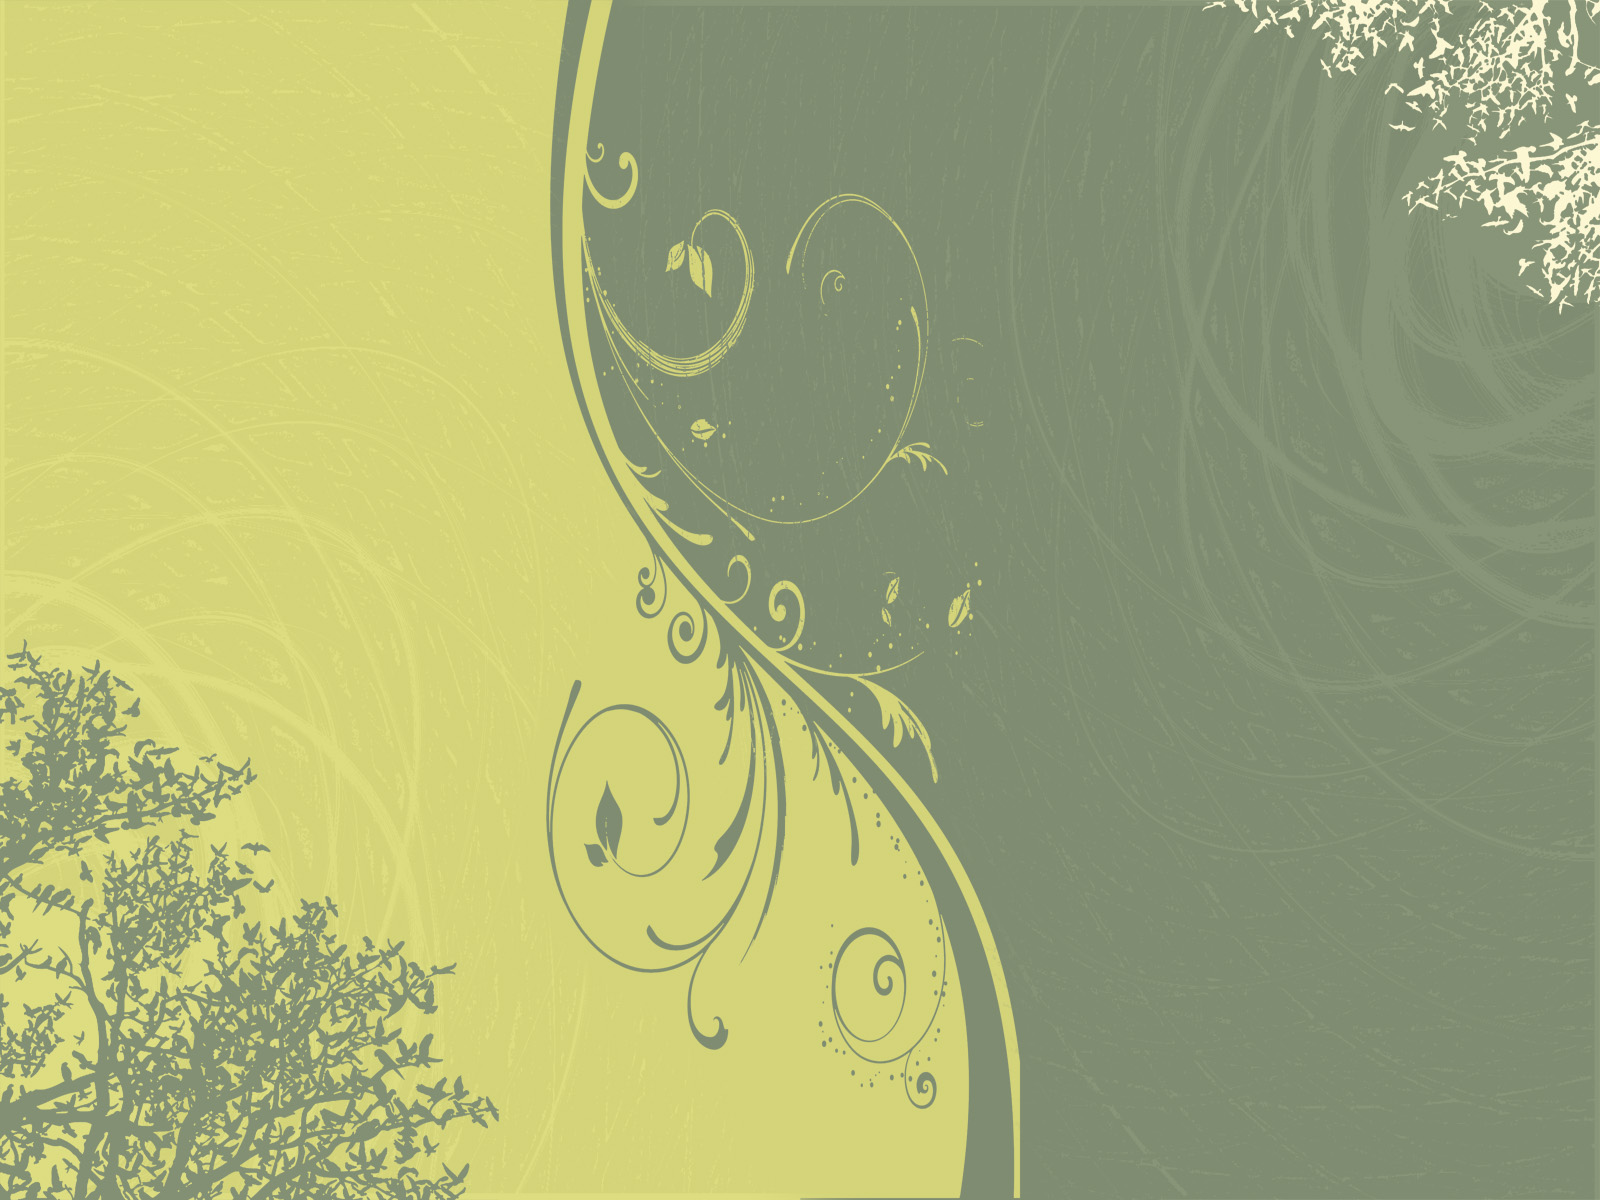
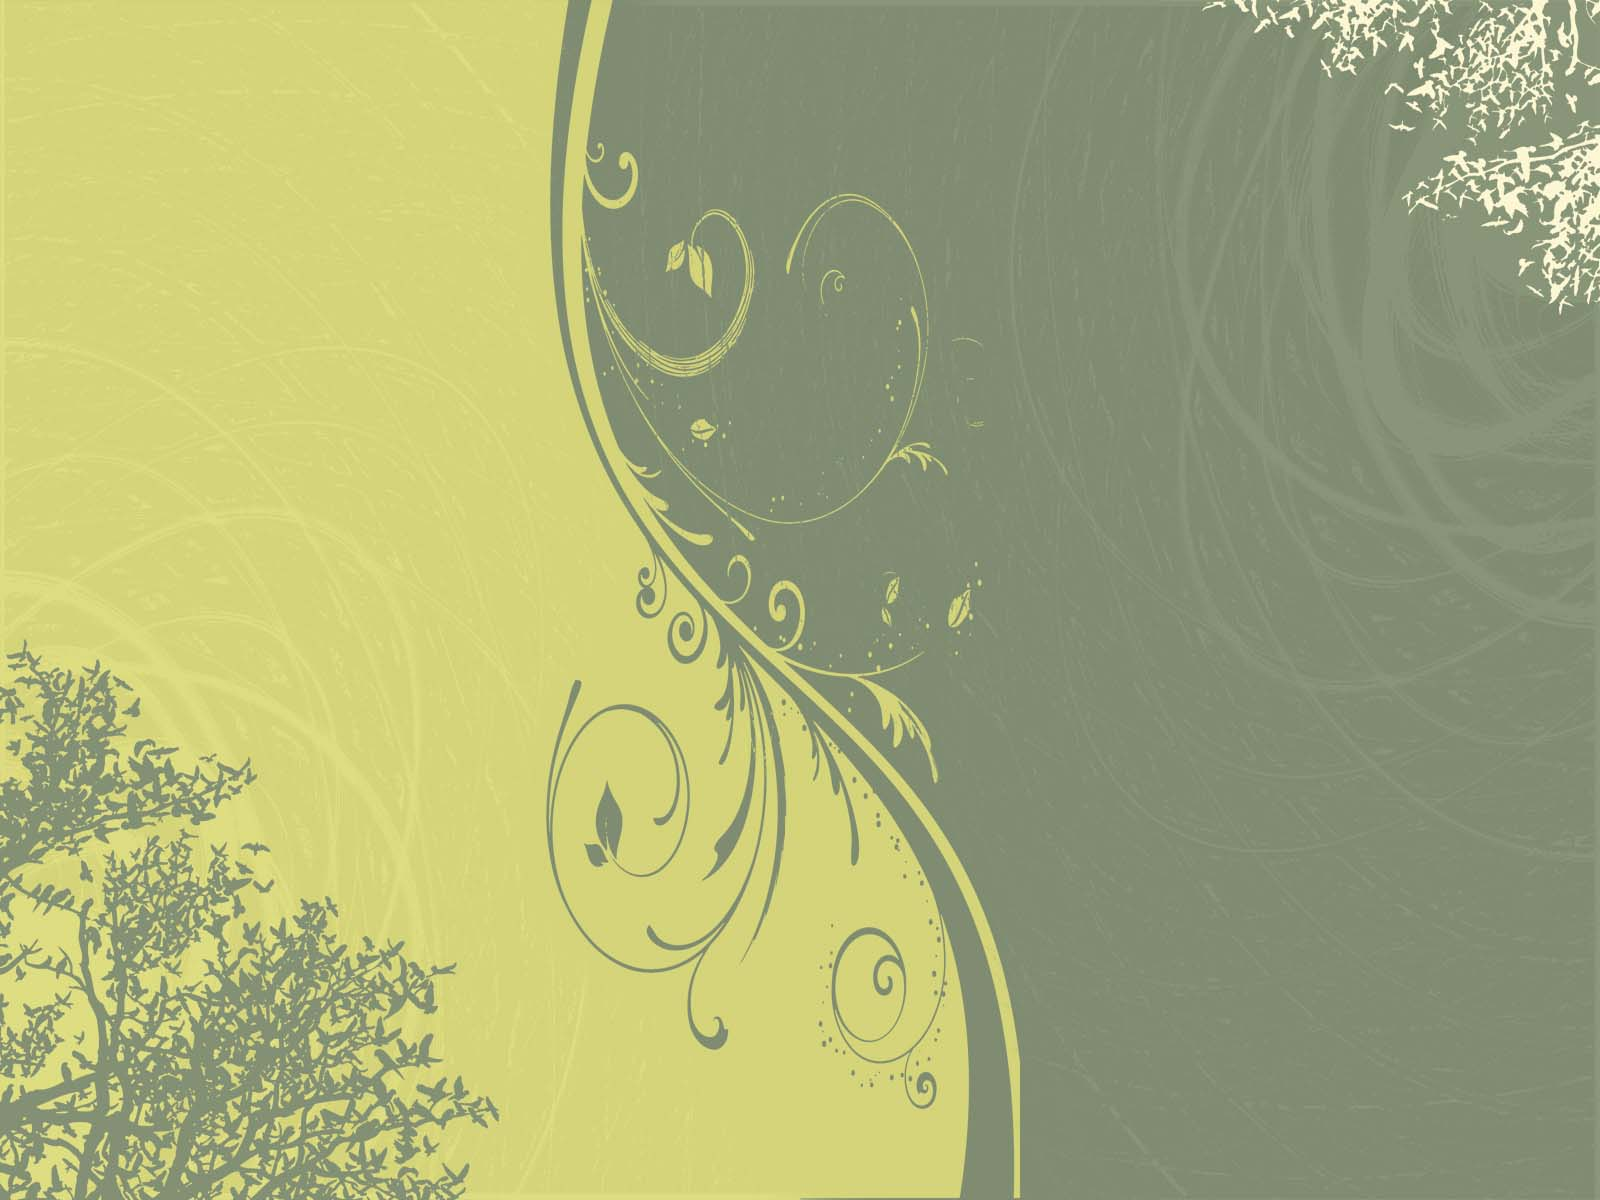
Optimized images for faster page load

diff --git a/index.html b/index.html
@@ -52,7 +52,7 @@
 	<div id="parallax">
 		<img id="lyr1" style="width:1400px; height:768px" src="images/layer1.jpg" />
 		<img id="lyr2" style="width:1600px; height:768px" src="images/layer2.png" />
-		<img id="lyr3" style="width:2000px; height:768px" src="images/layer3.png" />
+		<img id="lyr3" style="width:2000px; height:768px" src="images/layer3.gif" />
 	</div>
 	<img id="art" src="images/art.png" alt="Sudhakar weds Aiswarya" />
 	<img id="address" style="position:absolute" src="images/address.png" />
